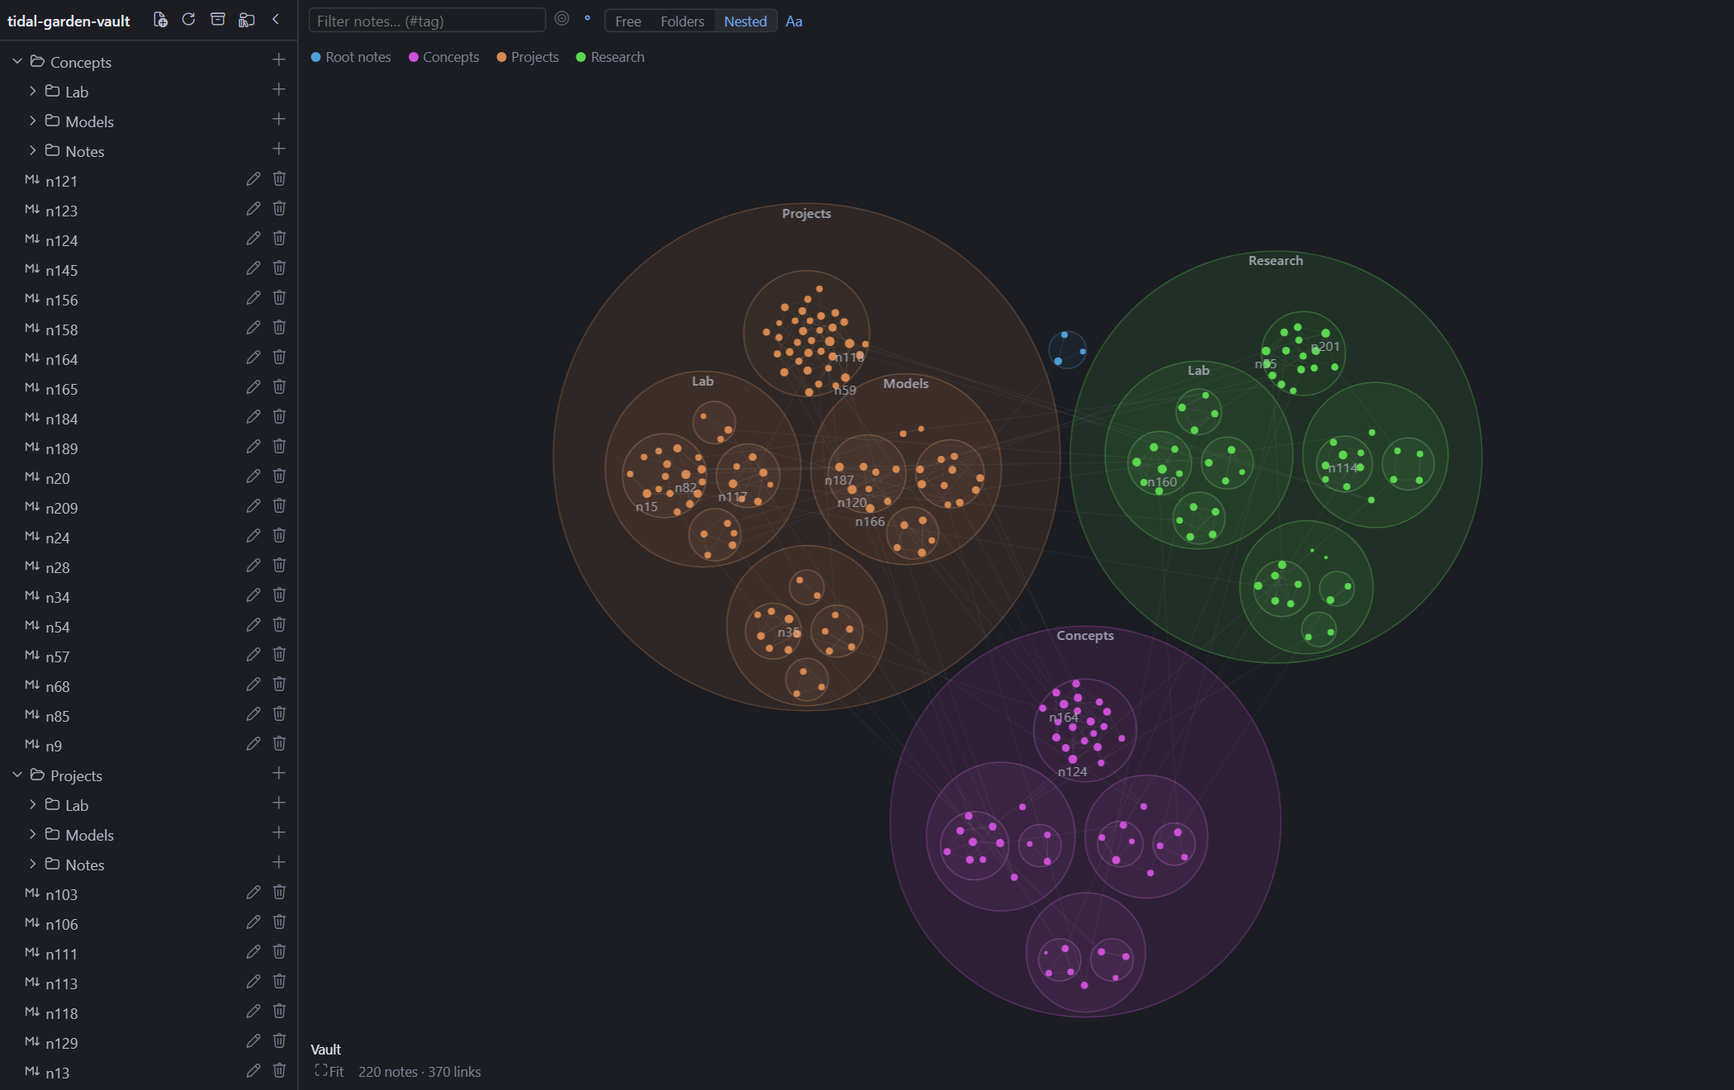
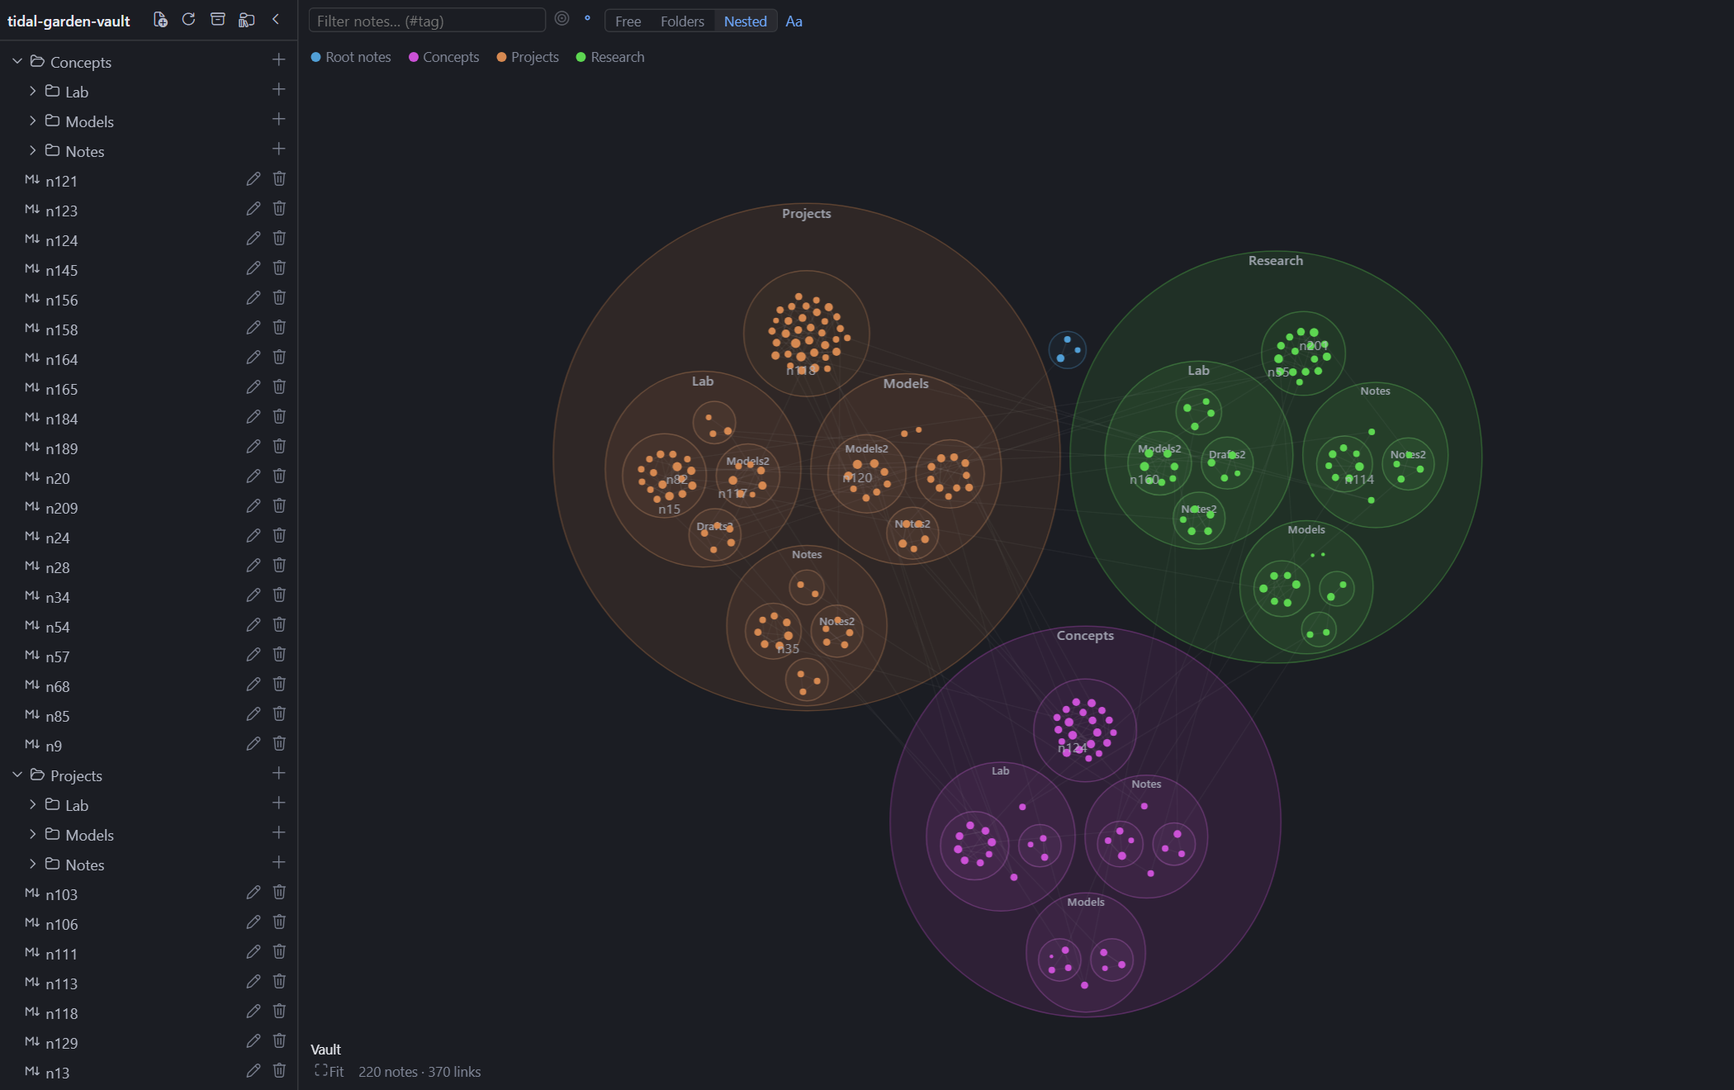
fix: no layout restart on focus rescan; keep notes off compartment rims; earlier region labels; edge-treatment proposal

diff --git a/src/graph-view.tsx b/src/graph-view.tsx
@@ -41,7 +41,13 @@ const TOUCHED_MS = 10 * 60 * 1000
 
 /** A region is drawn (and can be hit) once its on-screen radius reaches this, and its label once it reaches the second. */
 const REGION_MIN_PX = 14
-const LABEL_MIN_PX = 40
+const LABEL_MIN_PX = 20
+/**
+ * Region labels are 11px, shrinking with the region to this floor. A label that does not fit the crescent above the
+ * content (which needs a region of about 60px radius for 11px text) is drawn at the floor, haloed, over the
+ * region's top instead — from LABEL_MIN_PX up, where the notes beneath are a few pixels each.
+ */
+const LABEL_COMPACT_PX = 9
 /** The camera "is in" a region once the region's on-screen radius reaches this fraction of the viewport's short side. */
 const CURRENT_FRACTION = 0.25
 /** The global Fit action never magnifies past this; framing a folder is not capped. */
@@ -193,6 +199,26 @@ export function GraphView(props: GraphViewProps) {
   }
 
   const paintRegions = (ctx: CanvasRenderingContext2D, ink: string, labelPlaced: [number, number, number, number][]) => {
+    // The first opaque background above the canvas, so a haloed label cuts a clean edge in any theme.
+    let haloColor: null | string = null
+
+    const halo = (): string => {
+      if (haloColor === null) {
+        haloColor = 'rgba(0, 0, 0, 0.55)'
+
+        for (let el: Element | null = canvasRef.current; el; el = el.parentElement) {
+          const bg = getComputedStyle(el).backgroundColor
+
+          if (bg && !/^rgba?(.*,s*0)$|^transparent$/.test(bg)) {
+            haloColor = bg
+            break
+          }
+        }
+      }
+
+      return haloColor
+    }
+
     const geo = geometryRef.current
     const { h, w } = sizeRef.current
     const { k, x, y } = viewRef.current
@@ -299,29 +325,46 @@ export function GraphView(props: GraphViewProps) {
 
       if (region.label && !covers && (s >= LABEL_MIN_PX || forced)) {
         const text = hidden ? `${region.label} ${t('graph.hiddenSuffix')}` : region.label
-        const width = ctx.measureText(text).width
-        const half = width / 2 + 3 / k
-        const room = region.r > half ? region.r - Math.sqrt(region.r * region.r - half * half) : region.r
-        const dy = Math.max(3 / k, room)
 
-        const box: [number, number, number, number] = [
-          region.x - width / 2,
-          region.y - region.r + dy,
-          region.x + width / 2,
-          region.y - region.r + dy + fontPx * 1.15
-        ]
+        // Where `text` sits at `px` screen pixels: in the top of the region, as high as the circle's curve allows.
+        const lay = (px: number) => {
+          ctx.font = `600 ${px / k}px "Segoe UI", system-ui, -apple-system, sans-serif`
 
-        // The label belongs in the crescent above the content disc, where no note or child region can be.
-        // It is drawn unforced only while it fits there at this zoom, so it never sits on a note.
-        if (forced || (room < region.r && rectClearOf(box, region.content, 2 / k))) {
-          if (forced || !labelPlaced.some(p => box[0] < p[2] && box[2] > p[0] && box[1] < p[3] && box[3] > p[1])) {
-            labelPlaced.push(box)
-            labelBoxesRef.current.push({ box: [box[0] - 2 / k, box[1] - 2 / k, box[2] + 2 / k, box[3] + 2 / k], id: region.id })
-            ctx.globalAlpha = lit || forced ? 1 : focusId !== null ? 0.4 : 0.85
-            ctx.fillStyle = ink
-            ctx.fillText(text, region.x, box[1])
-          }
+          const width = ctx.measureText(text).width
+          const half = width / 2 + 3 / k
+          const room = region.r > half ? region.r - Math.sqrt(region.r * region.r - half * half) : region.r
+          const top = region.y - region.r + Math.max(3 / k, room)
+
+          return { box: [region.x - width / 2, top, region.x + width / 2, top + (px / k) * 1.15] as [number, number, number, number], room, width }
         }
+
+        const taken = (box: readonly number[]) => labelPlaced.some(p => box[0]! < p[2] && box[2]! > p[0] && box[1]! < p[3] && box[3]! > p[1])
+        // The crescent above the content disc holds no note or child region, so a label that fits there is drawn
+        // as it is. The text shrinks with the region before it gives up on the crescent.
+        const sized = lay(Math.min(11, Math.max(LABEL_COMPACT_PX, s / 5)))
+        const clear = sized.room < region.r && rectClearOf(sized.box, region.content, 2 / k)
+        const overlay = forced || clear ? null : lay(LABEL_COMPACT_PX)
+        const spot = forced || clear ? sized : overlay && overlay.width <= 1.5 * region.r ? overlay : null
+
+        if (spot && (forced || !taken(spot.box))) {
+          const { box } = spot
+
+          labelPlaced.push(box)
+          labelBoxesRef.current.push({ box: [box[0] - 2 / k, box[1] - 2 / k, box[2] + 2 / k, box[3] + 2 / k], id: region.id })
+          ctx.globalAlpha = lit || forced ? 1 : focusId !== null ? 0.4 : 0.85
+
+          if (spot === overlay) {
+            ctx.lineJoin = 'round'
+            ctx.lineWidth = 3 / k
+            ctx.strokeStyle = halo()
+            ctx.strokeText(text, region.x, box[1])
+          }
+
+          ctx.fillStyle = ink
+          ctx.fillText(text, region.x, box[1])
+        }
+
+        ctx.font = `600 ${fontPx}px "Segoe UI", system-ui, -apple-system, sans-serif`
       }
 
       for (const id of region.children) {

diff --git a/src/layout.ts b/src/layout.ts
@@ -5,6 +5,7 @@
  */
 
 import {
+  type Force,
   forceCollide,
   forceLink,
   forceManyBody,
@@ -160,11 +161,51 @@ export interface LayoutSpec {
  * notes in the outer 5% of a compartment). With the legacy 0.07 pull and 340 repulsion range, 61% of notes sat on
  * the rim with internal links only and 83% with no links at all: not cross-folder tension, but the repulsion pushing
  * outward against a weak pull. Shortening the range to 60 and pulling at 0.25 brings internal-only to 4% (and no-links
- * to 43%). Cross-folder links add a separate tension (65% at 70% cross-links), so they are weakened to a third.
+ * to 43%). Cross-folder links add a separate tension (65% at 70% cross-links). A second pass (live vault, notes hugging the
+ * rim) found the cross-folder pull — proportional to a distance of hundreds — still beat the centring pull, and that plain
+ * repulsion alone leaves 44% on the rim; so cross links are weakened to 0.03 and an inset spring eases notes off the rim
+ * beyond half the usable radius (rim share 63% -> 10% at 70% cross-links, 27% -> 0% at 10%; mean radial fraction 0.5-0.6).
  */
 const NESTED_PULL = 0.25
 const NESTED_REPULSION_RANGE = 60
-const CROSS_LINK = 0.1
+const CROSS_LINK = 0.03
+/**
+ * Notes are eased off the rim: beyond this share of the usable radius a spring pushes them back, so a settled
+ * compartment reads as a filled disc rather than a ring. Gentle by design — the hard projection stays the guarantee.
+ */
+const INSET_START = 0.5
+const INSET_STRENGTH = 2
+
+function forceInset(geometry: Geometry): Force<SimNode, SimLink> {
+  let nodes: SimNode[] = []
+
+  const force = (alpha: number) => {
+    for (const node of nodes) {
+      const comp = compartmentOf(geometry, node.dir)
+
+      if (!comp || node.fx != null) {
+        continue
+      }
+
+      const room = Math.max(0, comp.r - radiusOf(node))
+      const dx = node.x - comp.x
+      const dy = node.y - comp.y
+      const d = Math.hypot(dx, dy)
+      const start = room * INSET_START
+
+      if (d > start && d > 0) {
+        const push = ((d - start) / d) * INSET_STRENGTH * alpha
+
+        node.vx! -= dx * push
+        node.vy! -= dy * push
+      }
+    }
+  }
+
+  force.initialize = (list: SimNode[]) => void (nodes = list)
+
+  return force
+}
 
 /** The simulation. Nested mode pulls each note toward its compartment's centre instead of its folder's anchor. */
 export function createSimulation(
@@ -180,7 +221,7 @@ export function createSimulation(
   const aim = (axis: 'x' | 'y') => (node: SimNode) =>
     nested ? (compartmentOf(geometry, node.dir)?.[axis] ?? 0) : (anchors.get(node.folder)?.[axis] ?? 0)
 
-  return forceSimulation<SimNode>(nodes)
+  const sim = forceSimulation<SimNode>(nodes)
     .alpha(alpha)
     .force(
       'link',
@@ -193,6 +234,8 @@ export function createSimulation(
     .force('collide', forceCollide<SimNode>().radius(node => radiusOf(node) + COLLIDE_PAD))
     .force('x', forceX<SimNode>(aim('x')).strength(pull))
     .force('y', forceY<SimNode>(aim('y')).strength(pull))
+
+  return nested ? sim.force('inset', forceInset(geometry)) : sim
 }
 
 /**

diff --git a/src/model.ts b/src/model.ts
@@ -295,6 +295,29 @@ export function buildGraph(notes: readonly NoteIndex[]): VaultGraph {
   }
 }
 
+/**
+ * Whether two graphs are the same, node for node and edge for edge. The view rebuilds its simulation whenever the
+ * graph's identity changes, so a rescan that found nothing new must hand back the old object.
+ */
+export function sameGraph(a: VaultGraph, b: VaultGraph): boolean {
+  return (
+    a.nodes.length === b.nodes.length &&
+    a.edges.length === b.edges.length &&
+    a.nodes.every((node, i) => {
+      const other = b.nodes[i]!
+
+      return (
+        node.id === other.id &&
+        node.degree === other.degree &&
+        node.title === other.title &&
+        node.tags.length === other.tags.length &&
+        node.tags.every((tag, j) => tag === other.tags[j])
+      )
+    }) &&
+    a.edges.every((edge, i) => edge.source === b.edges[i]!.source && edge.target === b.edges[i]!.target)
+  )
+}
+
 /** Drawn (and collision) radius of a note: grows with its degree. */
 export const radiusOf = (node: Pick<GraphNode, 'degree'>): number => 3 + Math.sqrt(node.degree) * 1.7
 

diff --git a/src/store.ts b/src/store.ts
@@ -20,6 +20,7 @@ import {
   parseLinkTarget,
   retargetLinks,
   rewriteWikilinks,
+  sameGraph,
   type VaultGraph,
   type VaultNote
 } from './model'
@@ -342,7 +343,10 @@ export class VaultStore {
   }
 
   private graphFor(notes: readonly VaultNote[]): VaultGraph {
-    return buildGraph(notes.map(note => this.cache.get(note.rel)?.index ?? { links: [], rel: note.rel, tags: [] }))
+    const next = buildGraph(notes.map(note => this.cache.get(note.rel)?.index ?? { links: [], rel: note.rel, tags: [] }))
+
+    // A focus rescan that changed nothing must not look like a new graph: that would restart the layout.
+    return sameGraph(this.state.graph, next) ? this.state.graph : next
   }
 
   private reindex(rel: string, text: string): void {

diff --git a/src/store.test.ts b/src/store.test.ts
@@ -88,6 +88,19 @@ describe('scanning', () => {
     expect(store.get().notes.some(n => n.rel === 'Fresh.md')).toBe(true)
     expect(reads.mock.calls.map(c => c[0])).toEqual([disk.abs('Fresh.md')])
   })
+
+  it('keeps the same graph object across a rescan that changed nothing, so the layout is not restarted', async () => {
+    await ready()
+
+    const before = store.get().graph
+
+    await store.scan('full')
+    expect(store.get().graph).toBe(before)
+
+    disk.files.set(disk.abs('Fresh.md'), 'new [[Alpha]]')
+    await store.scan('full')
+    expect(store.get().graph).not.toBe(before)
+  })
 })
 
 describe('editing', () => {

diff --git a/docs/edge-treatment.md b/docs/edge-treatment.md
@@ -1,0 +1,79 @@
+# Edge treatment in the nested graph
+
+Status: proposal, nothing implemented. Written after the nested regions shipped (see [nested-folder-regions.md](nested-folder-regions.md)), when the live vault showed that edges, not regions or notes, now dominate the picture.
+
+## Context and motivation
+
+Today every edge is one straight line, 1 screen pixel wide, alpha 0.35, one muted colour, painted over the region discs and under the notes (`draw` in `src/graph-view.tsx`; on hover the focused note's edges go to alpha 0.9 in the accent colour and the rest to 0.08). That treatment was designed for the flat layouts, where distance already encodes locality. In nested mode it has three problems, all visible in the live screenshot:
+
+1. **Cross-region edges form a haze over the map.** In nested mode a note's edge to another top-level folder crosses at least two region boundaries and the empty space between discs. These edges are the long ones, they are the majority in a densely cross-linked vault, and they paint over the discs that are supposed to carry the structure. Intra-folder edges, which are what explain a compartment's internal arrangement, are short and drowned out by them.
+2. **The layout no longer needs cross-folder edges to be strong.** Cross-folder link strength was cut to 0.03 so they stop dragging notes to the rim. Those edges are now almost purely visual: they say "A and B are related" without influencing position. A purely visual channel can be encoded more compactly than one line per link.
+3. **Cost is per edge, per frame.** The paint loop does `beginPath`/`stroke` for every edge on every tick and every pan/zoom frame. Cost is unmeasured in the Hermes webview; the earlier paint bench (headless Edge) is the place to measure it before and after.
+
+## Edge classes
+
+The folder tree gives a natural classification with no new data: the lowest common ancestor (LCA) of the two notes' folders.
+
+| class | LCA | meaning |
+|---|---|---|
+| intra-compartment | the notes' own folder | same folder; the local texture of a compartment |
+| intra-top | a folder below the root, above both notes' folders | same top-level folder, different subfolders |
+| inter-top | the vault root | crosses top-level containers |
+
+Depth of the LCA is a finer scalar (`span`, the number of region boundaries the straight line crosses is a related quantity) and is what the proposals below actually key on; the three classes are its coarse reading. Computing it is O(depth) per edge, once per graph change, from `geometry.byDir` and the region parent chain.
+
+## Proposals
+
+They are ordered by dependency and by cost; each can be adopted without the next.
+
+### E0. Batch strokes and cull to the viewport (no visual change)
+
+Group edges by style class and issue one path and one `stroke` per class instead of one per edge; skip an edge whose bounding box misses the viewport. Zoomed in, most edges are off screen, so the cull is the larger saving there; batching helps at every zoom. This changes nothing a user sees, only cost, and every later proposal assumes it (a handful of classes is cheap to batch; per-edge styles are not). Measure with the paint bench before deciding the rest is needed for performance reasons, as opposed to legibility reasons.
+
+### E1. Tier the style by class
+
+Intra-compartment edges keep the current weight, tinted with the folder's hue so they read as part of the region. Intra-top edges are lighter, same hue. Inter-top edges are the faintest, neutral (or a two-stop gradient between the endpoint hues, which costs a gradient object per edge and so conflicts with E0; a neutral colour batches). Hover and selection override the tier: a focused note's edges are fully drawn regardless of class, so the haze is a resting state, not a loss of information.
+
+Rationale: it applies the visual hierarchy the regions already establish. The reader should see structure first (discs), local relations second (intra edges), global relations third (cross edges).
+
+Open: whether inter-top edges should be neutral or hued. Neutral is cheaper and quieter; hued by the source's top-level folder makes direction-free edges look directional.
+
+### E2. Gate edges by zoom, using the same bands as regions and labels
+
+The map already has semantic zoom bands for regions (`REGION_MIN_PX`) and labels (`LABEL_MIN_PX`). Edges can follow the same rule keyed on the LCA region's on-screen radius `s`:
+
+- an edge of LCA region R is drawn at full tier strength only while R's on-screen radius is below the viewport-covering scale and above a minimum (below it, the region is a dot and its internal edges are sub-pixel);
+- once R has outgrown the viewport (the existing `covers` condition) its internal edges stay, and edges of enclosing LCAs are faded further, because their far endpoints are off screen anyway;
+- inter-top edges fade out as the camera enters a single top-level region, and return when it backs out.
+
+The effect is that the edges drawn at any zoom are those that connect things visible at that zoom, which is the same promise the labels make. This needs per-edge LCA depth (above) and nothing else; it is a change of alpha, not of geometry.
+
+### E3. Bundle inter-top edges
+
+For graphs where E1 and E2 still leave a hairball, replace individual inter-top edges at low zoom by one aggregate per pair of sibling regions at the LCA: a ribbon between the two child regions, width growing with the log of the edge count, expanding into the individual edges when the camera zooms into either endpoint region or the user hovers a note. At most min(E, R²) ribbons for R sibling regions at that level, usually far fewer than E.
+
+Two forms, in increasing cost:
+
+- **Ribbons between region discs**: straight or gently curved bands between disc boundaries. Static geometry (regions do not move), so the ribbon set changes only when the graph does. Cheap to draw; loses which notes are linked until expanded.
+- **Hierarchical edge bundling** (Holten, IEEE TVCG 2006; DOI recalled, unverified): route each edge as a B-spline through the centres of the regions on the tree path between its endpoints, with a tension parameter. Keeps per-edge identity, exposes the hierarchy, and reuses the region geometry as control points. Cost is O(depth) control points per edge per frame, and endpoints move while notes settle, so curves are rebuilt on tick. It also does not compose with E0's one-path-per-class batching unless curves are flattened into polylines first.
+
+I would start with ribbons. The nested map already has the hierarchy as geometry, so the bundling control points are free, but the per-frame cost and the loss of straight-line readability for the bundled curves are the sort of thing to measure on the real vault first, not to assume.
+
+### E4. A user-visible control
+
+A three-state `Edges` control in the toolbar beside the layout and labels toggles, in the same spirit: `All` (every edge at its tier), `Tiered` (the default: E1 and E2), `Off`. `Off` matters for very large vaults and for reading structure alone. Per-class toggles are not proposed; the tiers are meant to make them unnecessary.
+
+## Recommendation
+
+Do E0 and E1 together: E0 is invisible and E1 is the largest legibility change per line of code. Then E2, which is cheap once the LCA depth exists. Hold E3 until the result of E0–E2 on the live vault is seen; if the inter-top layer still obscures the discs, use ribbons first. E4 can ship with E1 since it is a pref and a toolbar button.
+
+## Tests and acceptance
+
+Few and sharp, per project convention: (1) LCA classification on a small tree, including notes at the root and chained single-child folders (the same chain-collapse the regions use); (2) batching issues one stroke per class (assert on the recorded canvas calls) and the cull drops an off-screen edge; (3) hover restores full strength for the focused note's edges whatever their class. No performance or coverage thresholds are proposed; judge paint cost by the bench numbers before and after.
+
+## Open questions
+
+1. Inter-top edge colour: neutral or hued.
+2. Whether an edge between a note and a hidden-folder region should be drawn at all (currently hidden notes and their edges are filtered out; unchanged unless decided otherwise).
+3. Whether a note-to-note edge inside the same compartment ever needs bundling (no: it is short by construction).
+4. Whether local-graph mode, which restricts to a neighbourhood, should bypass the tiers (likely yes: few edges, all relevant).

diff --git a/docs/nested-folder-regions.md b/docs/nested-folder-regions.md
@@ -239,3 +239,11 @@ Prototype evidence: (1) compartments crowd their edges under the folder-mode for
 - **Recovery.** Entries equal to a top-level legend chip stay on that chip; every other entry, deeper or stale at any depth including `''`, is a chip in the Hidden group with its subtree count (stale ones dimmed and marked "not in current scan"). Removing a chip moves focus to the control that takes its place, else to the graph. The scan-empty message renders the same group, so stale entries can be cleared when no notes exist.
 - **Tests.** `src/hidden.test.ts` (segment boundaries, root-only `''`, legacy entries, coexisting ancestors and descendants, targeting, counts), store tests (covered no-op, exact removal, stale entries surviving a rescan, Show all), `graph-view.test.tsx` (button targets the camera folder rather than a hovered one, `H` agrees with the button with zero displayed notes and ignores repeat, residual-coverage announcements, dashed and labelled hidden regions that can still be framed, no dash leak, Hidden group in folder mode with counts and stale entries, focus after removal) and `workspace.test.tsx` (recovery beside the no-notes message). A test-isolation note: view tests that render must `await settle()` before ending, or a pending d3 timer from the unsettled simulation leaks into the next test.
 - **Screenshot.** `node scripts/screenshots.mjs hidden` renders `docs/screenshots/hidden-folders-*.png` from the generated vault with two hidden subtrees and one stale entry.
+
+### Rim crowding, label reach and focus rescans (second pass)
+
+A live vault showed notes hugging compartment rims. Measured with `demo/bench.ts`: plain repulsion alone leaves 44% of notes on the rim, and cross-folder links (a pull proportional to a distance of hundreds) beat the centring pull. Cross-folder link strength is now 0.03 and an inset spring (`forceInset` in `src/layout.ts`) eases notes off the rim beyond half the usable radius; the hard projection remains the guarantee. Layouts saved before this change settle inward gently on the next warm start rather than being reset.
+
+Region labels were limited by the crescent fit (about 60px region radius for 11px text), not by `LABEL_MIN_PX`, so lowering that constant alone changes nothing. Labels now shrink to 9px with the region, and from `LABEL_MIN_PX` (20) a label that still does not fit the crescent is drawn haloed over the region's top, allowed to overlap a few small notes; notes keep pointer priority over it.
+
+Every window focus triggered a full rescan that built a new graph object, which rebuilt the simulation (warm settle, position write-back). `VaultStore.graphFor` now returns the previous graph when the rebuilt one is identical (`sameGraph`), so a rescan that found nothing new leaves the layout alone.
